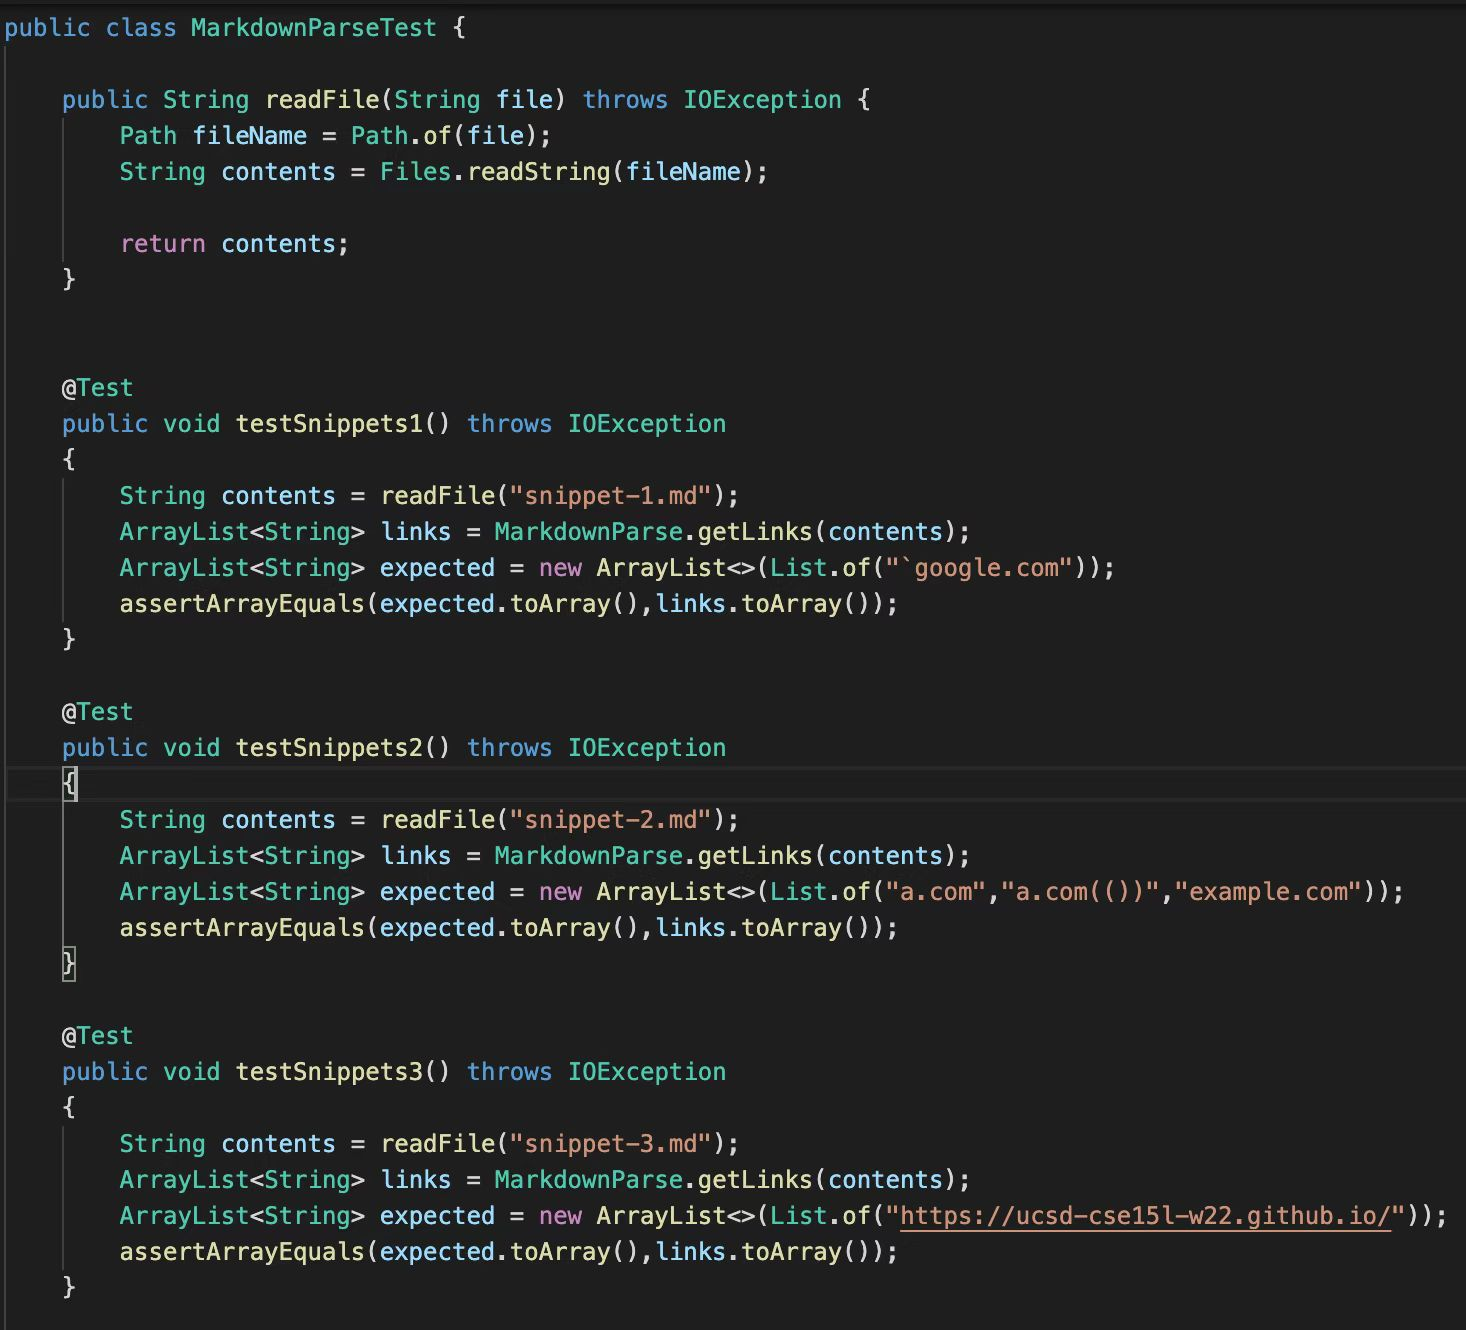
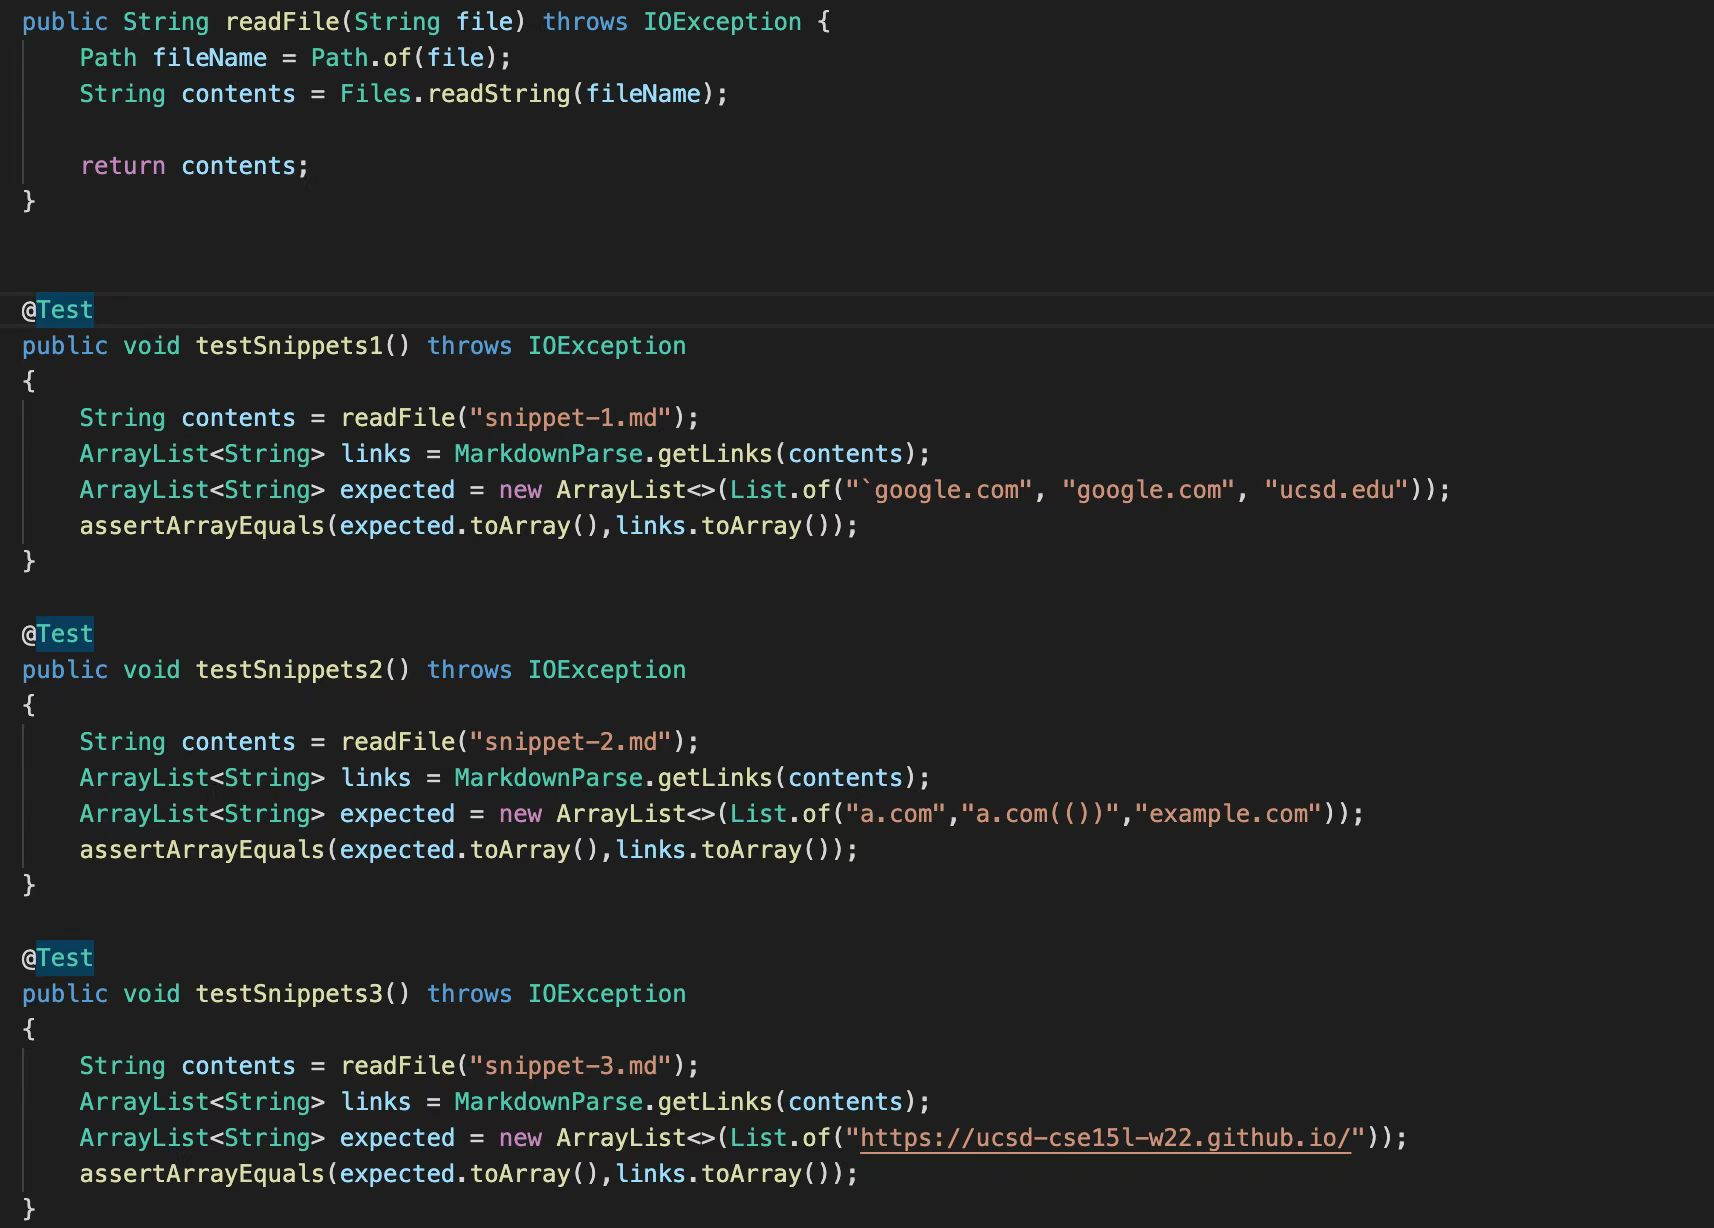
1

Changed region(s): [[0.0, 0.4951, 0.9823, 0.9593], [0.0, 0.2166, 0.8288, 0.4642], [0.0, 0.0, 0.5832, 0.1857]]

diff --git a/lab-report-4-week-8.md b/lab-report-4-week-8.md
@@ -2,18 +2,18 @@
 
 ---
 ## Link to index
-[Link to other lab report](https://2680991462.github.io/cse15l-lab-reports/index)
+* [Link to other lab report](https://2680991462.github.io/cse15l-lab-reports/index)
 
 ---
 ## Link to the method
-[My markdown-parse repository](https://github.com/2680991462/markdown-parse-old)
-[reviewed markdown-parse repository](https://github.com/m1ma0314/markdown-parse)
+* [My markdown-parse repository](https://github.com/2680991462/markdown-parse-old)
+* [reviewed markdown-parse repository](https://github.com/m1ma0314/markdown-parse)
 
 ---
 ## Preview of the Snippet
 ![Image1](p1.PNG)
 * The screenshot above is the preview of snippet 1. 
-* Based on the result, it should produce the link "`google.com"
+* Based on the result, it should produce the link "`google.com", "google.com", "ucsd.edu"
 ![Image1](p2.PNG)
 * The screenshot above is the preview of snippet 2. 
 * Based on the result, it should produce links "a.com", "a.com(())", "example.com".
@@ -34,7 +34,7 @@
 ![Image1](o2.jpg)
 * The screenshot above is the output after I typed `make Test` using my own markdownparse
 * The output shows that all three tests failed 
-* The line `expected:<['google.com> but was:<[url].com>` shows that my test case 1 failed
+* The line `expected:<[google.com", "google.com", "ucsd.edu"> but was:<[url].com>` shows that my test case 1 failed
 * The line `expected:<[a.com(([))]))> but was:<a.com(([]))>` shows that my test case 2 failed`
 * The line `expected:<[http://ucsd-cse15l-w22.github.io/]> but was:<[https://twitter.com]` shows that my test case 3 failed
 
@@ -45,13 +45,18 @@
 ![Image1](o4.jpg)
 * The screenshot above is the output after I typed `make Test` using the reviewed markdownparse
 * The output shows that all three tests failed 
-* The line `expected:<['google.com> but was:<[url].com>` shows that my test case 1 failed
+* The line `expected:<[google.com", "google.com", "ucsd.edu"> but was:<[url].com>` shows that my test case 1 failed
 * The line `expected:<[a.com(([))]))> but was:<a.com(([]))>` shows that my test case 2 failed`
 * The line `expected:<[http://ucsd-cse15l-w22.github.io/]> but was:<end of array>` shows that my test case 3 failed
 
 ---
-## Answer to the Question
-1. Yes, I believe there's way to ignore the inline code with backticks. I can write to check if there's a 
+## Answers to the Question
+1. Yes, I believe there's a small code change that can make my program work for the snippet 1. I could just add a if statement to check if there's a inline code before the open brackets.
+If there is, then the line should not considered as a link.
+
+2. Yes, I believe there's a small code change that can make my program work for the snippet 2. I could add a simple method to check if the last character is a ")". if there's a matching problem like two ")" with one "(", it would require more difficult code using stack data structure.
+
+3. No, I don't believe there's a small code change that can make my program work for the snippet 3. Because my code checks the link line by line and didn't consider the situation where links can be at different lines. This means I have to goo through my entire file to fix this error. 
 
 
 
